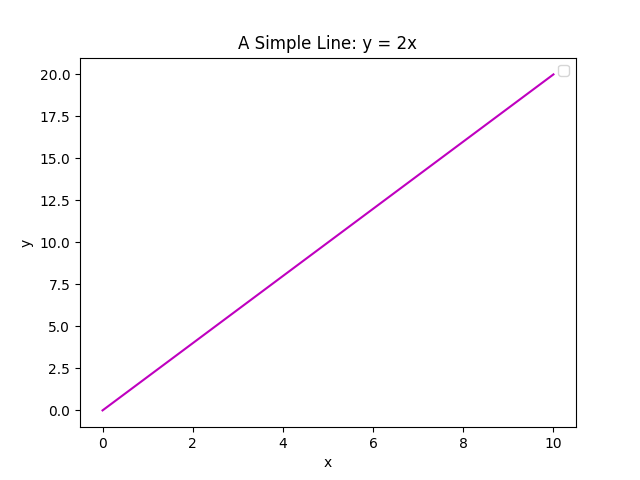
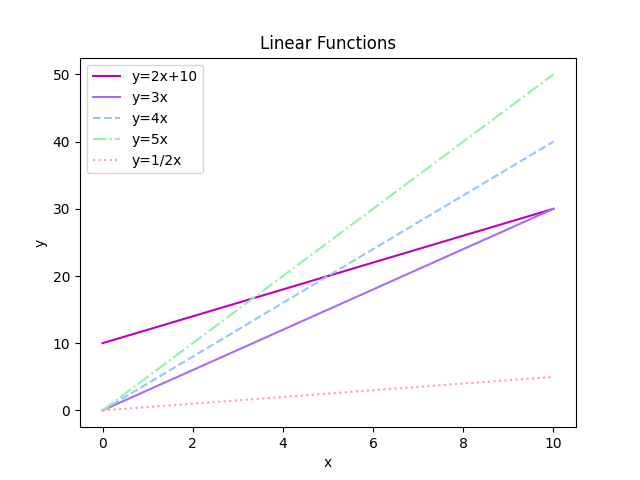
scatterplots

diff --git a/lineplots.py b/lineplots.py
@@ -10,25 +10,33 @@ x_vals = np.linspace(0, 10, 100)
 
 # LINE PLOTS work well when graphing FUNCTIONS
 # for example, y = f(x) or sin/cos/tan
-plt.plot(x_vals, np.sin(x_vals))
-plt.plot(x_vals, np.cos(x_vals))
+plt.plot(x_vals, np.sin(x_vals), label='y = sin(x)')
+plt.plot(x_vals, np.cos(x_vals), label='y = cos(x)')
 
 # Show figure in the dev environment
 # plt.show()
 
 # Save figure in a PNG file 
+plt.legend()
 plt.savefig('lineplot.png')
 plt.close() # clear the figure before making another
 
 # Demo on customization
-# Function below: y = 2x
-plt.plot(x_vals, 2 * x_vals, '.m')
+# Function below: y = mx + b
+m = 2 # slope (rise / run)
+b = 10 # y-intercept
+# Set the y values to the equation
+plt.plot(x_vals, (m * x_vals + b), label='y=2x+10', color='m')
+plt.plot(x_vals, 3 * x_vals, label='y=3x', color='#a86bff')
+plt.plot(x_vals, 4 * x_vals, label='y=4x', linestyle='dashed')
+plt.plot(x_vals, 5 * x_vals, label='y=5x', linestyle='dashdot')
+plt.plot(x_vals, 0.5 * x_vals, label='y=1/2x', linestyle='dotted')
 
 # Add titles, labels, legend
-plt.title('A Simple Line: y = 2x')
+plt.title('Linear Functions')
 plt.xlabel('x')
 plt.ylabel('y')
-plt.legend() # not as helpful if you only have one line
+plt.legend()
 
 plt.savefig('lineplot2.png')
 plt.close()

diff --git a/scatterplots.py b/scatterplots.py
@@ -1,0 +1,18 @@
+import pandas as pd
+from matplotlib import pyplot as plt
+
+# Read CSV file into Pandas DataFrame
+cities = pd.read_csv('california_cities.csv')
+print(cities.info()) # look at columns, dtypes, entries
+
+# Extract data columns for our scatterplot
+latitudes = cities['latd'] # y values
+longitudes = cities['longd'] # x values
+populations = cities['population_total']
+area = cities['area_total_sq_mi']
+
+# Generate scatterplot (each city row is a dot)
+plt.scatter(longitudes, latitudes)
+
+plt.savefig('scatter-cities.png')
+plt.close()
